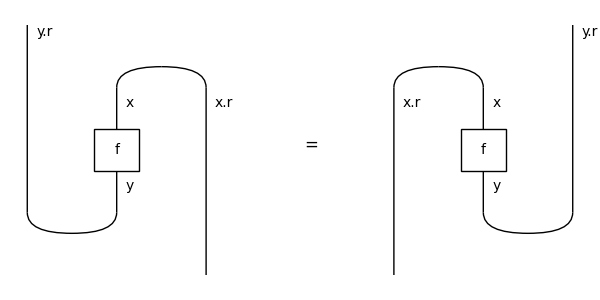
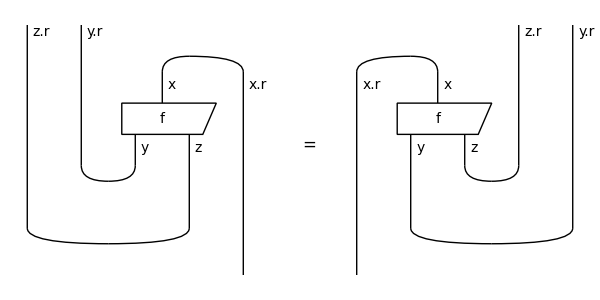
fix transpose drawing

diff --git a/discopy/pivotal.py b/discopy/pivotal.py
@@ -25,16 +25,31 @@ Axioms
 ------
 A pivotal category is a rigid category where left and right transpose coincide.
 
->>> x, y = map(Ty, "xy")
+>>> x, y, z = map(Ty, "xyz")
 >>> assert x.r == x.l and x.l.l == x == x.r.r
->>> f = Box('f', x, y)
->>> assert f.r == f.l and f.l.l == f == f.r.r
+>>> f = Box('f', x, y @ z)
 
 >>> from discopy import drawing
 >>> drawing.equation(f.transpose(left=True), f.transpose(left=False),
 ...                  figsize=(6, 3), path="docs/imgs/pivotal/axiom.png")
 
 .. image:: /imgs/pivotal/axiom.png
+    :align: center
+
+For each box, we have its conjugate:
+
+>>> drawing.equation(f, f.conjugate(), symbol="", figsize=(4, 2),
+...                  path="docs/imgs/pivotal/box-conjugate.png")
+
+.. image:: /imgs/pivotal/box-conjugate.png
+    :align: center
+
+We also have its dagger and its transpose:
+
+>>> drawing.equation(f.dagger(), f.rotate(), symbol="", figsize=(4, 2),
+...                  path="docs/imgs/pivotal/dagger-transpose.png")
+
+.. image:: /imgs/pivotal/dagger-transpose.png
     :align: center
 """
 
@@ -111,13 +126,16 @@ class Diagram(rigid.Diagram):
         >>> from discopy import drawing
         >>> drawing.equation(
         ...     f, f.conjugate(),
-        ...     symbol="$\\mapsto$", figsize=(6, 3), asymmetry=.1,
+        ...     symbol="$\\mapsto$", figsize=(6, 3),
         ...     path="docs/imgs/pivotal/conjugate.png")
 
         .. image:: /imgs/pivotal/conjugate.png
             :align: center
         """
         return self.rotate().dagger()
+
+    def draw(self, asymmetry=.25, **params):
+        return super().draw(**dict(dict(asymmetry=asymmetry), **params))
 
 
 class Box(rigid.Box, Diagram):
